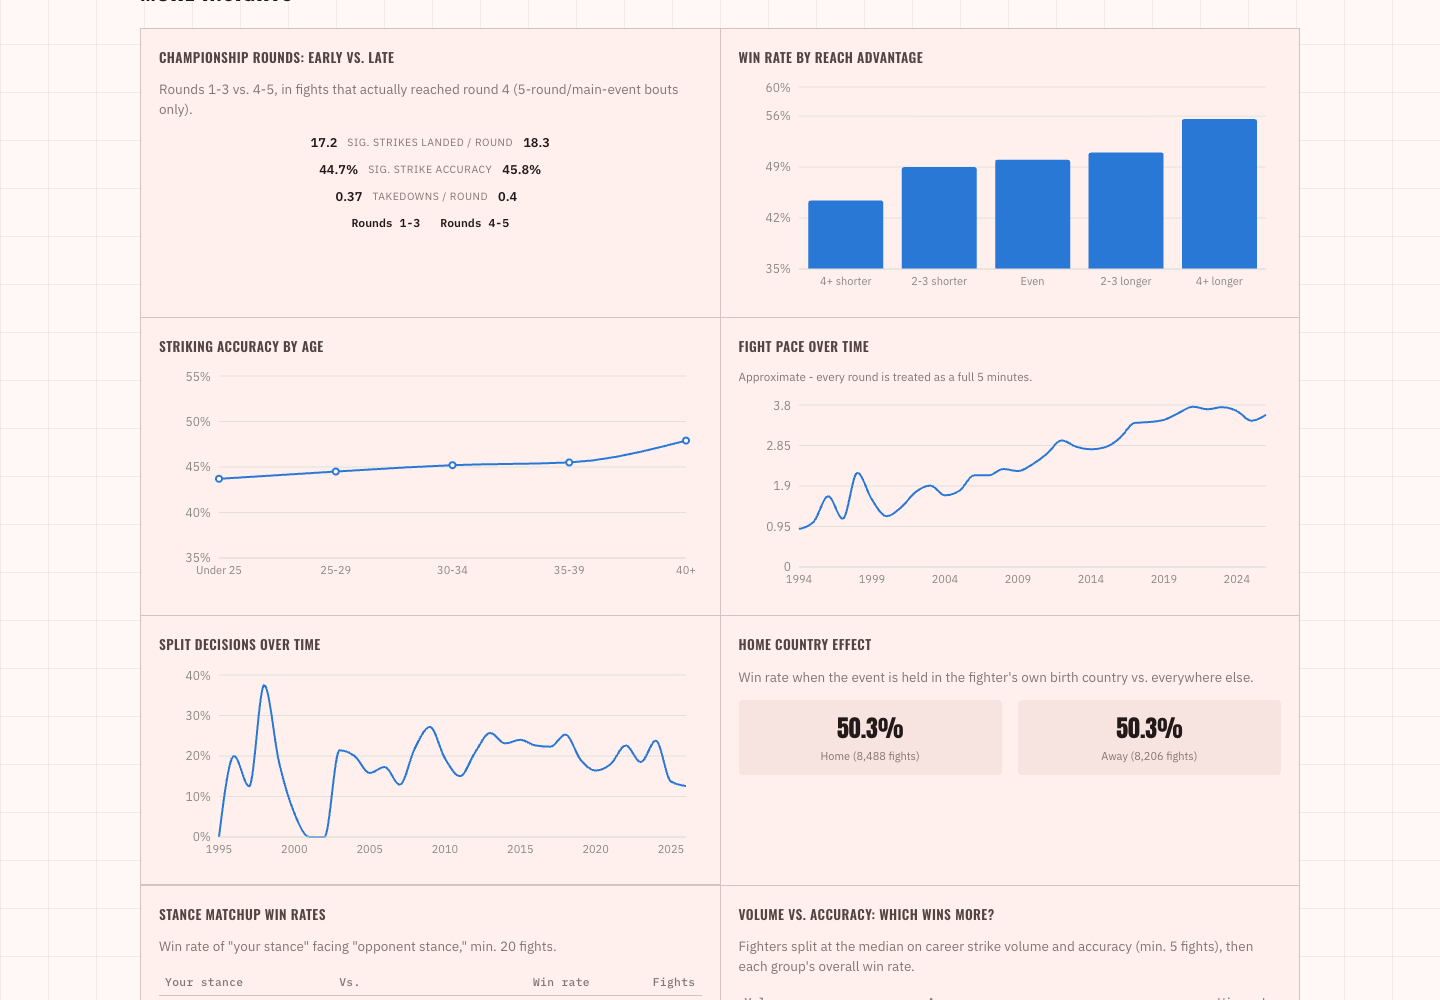
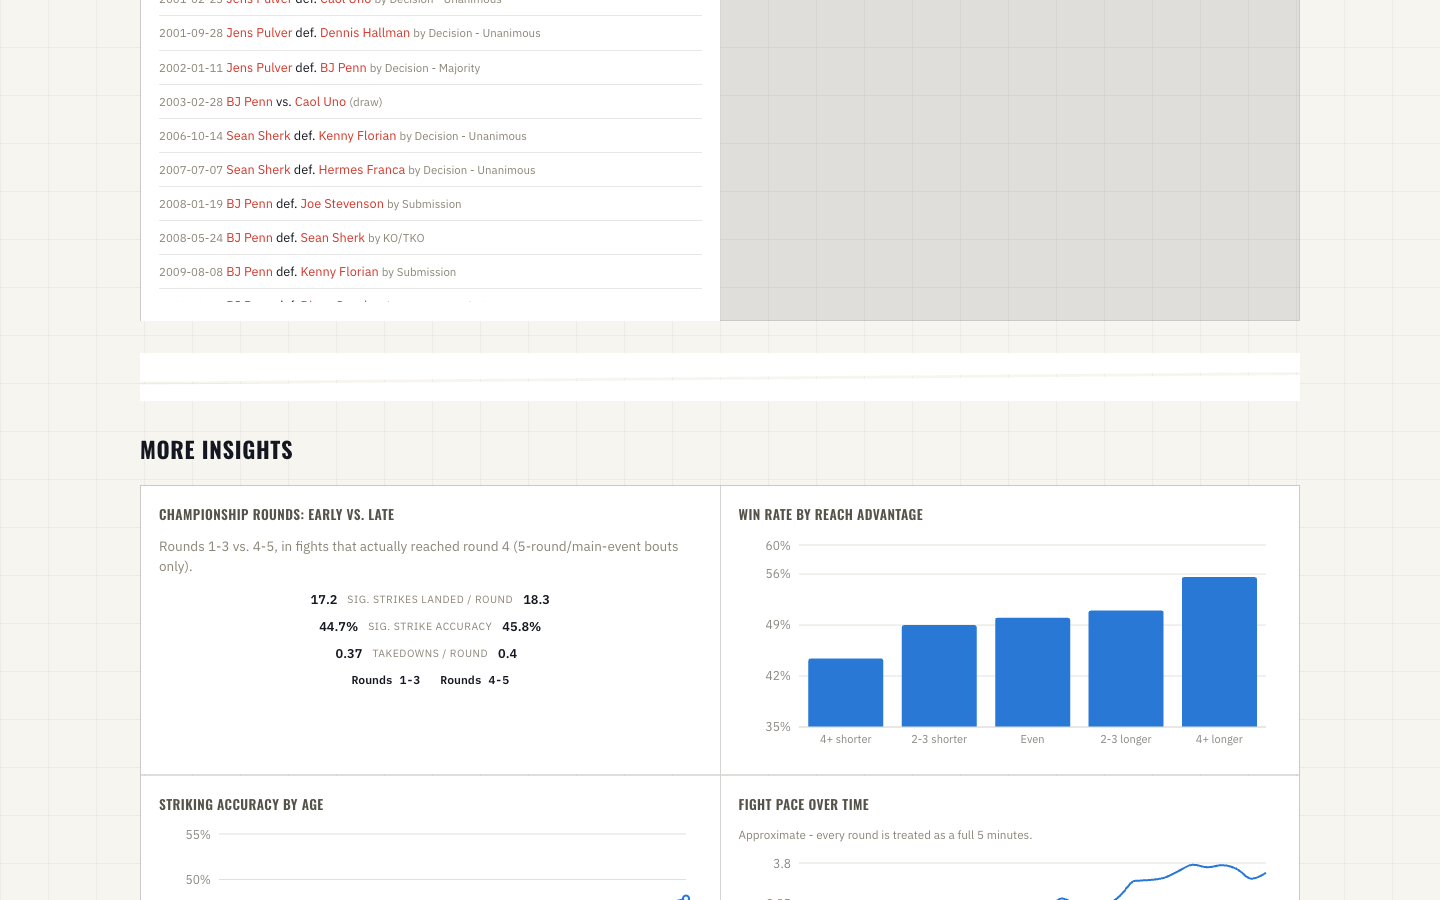
Revert "Rebuild UI on Material 3: algorithmically-generated color roles from the existing red-corner accent, real M3 state layers on interactive controls; keep the fight-card newspaper's flat shape language and leave chart series colors untouched"
This reverts commit 1e3d9e9161e861770a2fcd78363f7aaa02854dd7.

diff --git a/frontend/src/index.css b/frontend/src/index.css
@@ -1,82 +1,26 @@
-/* =========================================================================
-   Material 3 design system tokens.
-   Color roles generated algorithmically (HCT tonal-spot, seed #D1372A - the
-   app's existing "red corner" accent, formalized into a real tonal system)
-   via Google's @material/material-color-utilities - the tertiary role landed
-   on a gold naturally, which happens to match the belt/ranking accent this
-   app already used. The legacy variable names (--ink, --paper, --surface...)
-   are kept as aliases onto the new roles so none of the ~30 chart/table
-   components needed touching - only what they resolve to changed.
-
-   Shape stays deliberately flat: this app's "fight-card newspaper" identity
-   (hairline-grid card rows, sharp corners, no elevation shadows) is a real
-   M3-compatible choice - the spec's shape scale explicitly runs from "none"
-   to "full," and staying near the "none/extra-small" end is a valid brand
-   decision, not a deviation. Chart series colors (colors.js) stay untouched -
-   those are validated dataviz encodings, not UI chrome.
-   ========================================================================= */
-
+/* Token names (--ink, --paper) kept from the dark theme this replaces -
+   --ink is now the light page background and --paper the dark text
+   color, an inversion of what the names literally suggest, rather than
+   renaming every reference across App.css/colors.js/WorldMap.jsx. */
 :root {
   color-scheme: light;
-
-  /* Canonical M3 roles */
-  --md-sys-color-primary: #904a41;
-  --md-sys-color-on-primary: #ffffff;
-  --md-sys-color-primary-container: #ffdad5;
-  --md-sys-color-on-primary-container: #73342b;
-  --md-sys-color-secondary: #775652;
-  --md-sys-color-on-secondary: #ffffff;
-  --md-sys-color-secondary-container: #ffdad5;
-  --md-sys-color-on-secondary-container: #5d3f3b;
-  --md-sys-color-tertiary: #705c2e;
-  --md-sys-color-on-tertiary: #ffffff;
-  --md-sys-color-tertiary-container: #fcdfa6;
-  --md-sys-color-on-tertiary-container: #574419;
-  --md-sys-color-error: #ba1a1a;
-  --md-sys-color-on-error: #ffffff;
-  --md-sys-color-error-container: #ffdad6;
-  --md-sys-color-on-error-container: #93000a;
-  --md-sys-color-background: #fff8f7;
-  --md-sys-color-on-background: #231918;
-  --md-sys-color-surface: #fff8f7;
-  --md-sys-color-on-surface: #231918;
-  --md-sys-color-surface-variant: #f5ddda;
-  --md-sys-color-on-surface-variant: #534341;
-  --md-sys-color-surface-container-lowest: #ffffff;
-  --md-sys-color-surface-container-low: #fff0ee;
-  --md-sys-color-surface-container: #fceae7;
-  --md-sys-color-surface-container-high: #f7e4e1;
-  --md-sys-color-surface-container-highest: #f1dedc;
-  --md-sys-color-outline: #857370;
-  --md-sys-color-outline-variant: #d8c2be;
-  --md-sys-color-inverse-surface: #392e2c;
-  --md-sys-color-inverse-on-surface: #ffedea;
-
-  --md-sys-shape-corner-extra-small: 4px;
-  --md-sys-shape-corner-small: 8px;
-  --md-sys-shape-corner-medium: 12px;
-  --md-sys-shape-corner-large: 16px;
-  --md-sys-shape-corner-full: 999px;
-
-  --md-sys-elevation-1: 0 1px 2px 0 rgba(35, 25, 24, 0.14), 0 1px 3px 1px rgba(35, 25, 24, 0.08);
-  --md-sys-elevation-2: 0 1px 2px 0 rgba(35, 25, 24, 0.16), 0 4px 10px 1px rgba(35, 25, 24, 0.08);
-
-  /* Legacy aliases - same tokens, names the rest of the app already uses */
-  --ink: var(--md-sys-color-background);
-  --surface: var(--md-sys-color-surface-container-low);
-  --surface-raised: var(--md-sys-color-surface-container-high);
-  --paper: var(--md-sys-color-on-surface);
-  --text-secondary: var(--md-sys-color-on-surface-variant);
-  --text-muted: var(--md-sys-color-outline);
-  --accent-red: var(--md-sys-color-primary);
-  --accent-red-soft: var(--md-sys-color-primary-container);
-  --gold: var(--md-sys-color-tertiary);
-  --gold-soft: var(--md-sys-color-tertiary-container);
+  --ink: #f7f5f0;
+  --surface: #ffffff;
+  --surface-raised: #f0eee6;
+  --paper: #14171f;
+  --text-secondary: #55524a;
+  --text-muted: #8a8577;
+  --accent-red: #d1372a;
+  --accent-red-soft: rgba(209, 55, 42, 0.1);
+  --accent-blue: #2a78d6;
+  --accent-blue-soft: rgba(42, 120, 214, 0.1);
+  --gold: #a3782c;
+  --gold-soft: rgba(163, 120, 44, 0.14);
   --good: #1a8a3d;
   --bad: #c62f22;
-  --border: var(--md-sys-color-outline-variant);
-  --grid-line: rgba(35, 25, 24, 0.06);
-  --shadow: var(--md-sys-elevation-1);
+  --border: rgba(20, 23, 31, 0.1);
+  --grid-line: rgba(20, 23, 31, 0.045);
+  --shadow: 0 1px 2px rgba(20, 23, 31, 0.05), 0 16px 32px rgba(20, 23, 31, 0.06);
 
   font: 15px/1.5 "IBM Plex Sans", system-ui, -apple-system, "Segoe UI", sans-serif;
   -webkit-font-smoothing: antialiased;

diff --git a/frontend/src/App.css b/frontend/src/App.css
@@ -339,7 +339,6 @@ h1, h2, h3 {
 .text-input:focus {
   outline: none;
   border-color: var(--accent-red);
-  box-shadow: inset 0 0 0 1px var(--accent-red);
 }
 
 /* Fighter search */
@@ -515,7 +514,6 @@ h1, h2, h3 {
 
 .claude-composer:focus-within {
   border-color: var(--accent-red);
-  box-shadow: inset 0 0 0 1px var(--accent-red);
 }
 
 .claude-composer-input {
@@ -553,23 +551,11 @@ h1, h2, h3 {
   align-items: center;
   justify-content: center;
   cursor: pointer;
-  isolation: isolate;
-  transition: transform 0.1s;
+  transition: filter 0.15s, transform 0.1s;
 }
 
-.claude-send-btn::before {
-  content: "";
-  position: absolute;
-  inset: 0;
-  border-radius: inherit;
-  background: #ffffff;
-  opacity: 0;
-  transition: opacity 0.15s ease;
-  z-index: -1;
-}
-
-.claude-send-btn:not(:disabled):hover::before {
-  opacity: 0.12;
+.claude-send-btn:not(:disabled):hover {
+  filter: brightness(1.1);
 }
 
 .claude-send-btn:not(:disabled):active {

diff --git a/README.md b/README.md
@@ -128,26 +128,6 @@ validator were somehow skipped.
 **Not yet verified:** an actual live call through `chat/agent.py`/`ask.py` -
 this needs `ANTHROPIC_API_KEY`, which isn't set in this environment yet.
 
-## Design system: Material 3, as a fight-card newspaper
-
-The UI's color roles are generated algorithmically from the app's existing
-"red corner" accent (`#D1372A`) via Google's `@material/material-color-utilities`
-HCT tonal-spot algorithm - the same math behind Material You - which is also
-where the gold tertiary color came from (derived, not picked; it happened to
-land right on the belt/ranking accent this app already used). Legacy CSS
-variable names (`--ink`, `--paper`, `--accent-red`, ...) are kept as aliases
-onto the new M3 roles so the ~30 chart/table components needed no changes -
-only what the tokens resolve to did.
-
-Shape stays deliberately flat and sharp-cornered: this app's identity is a
-fight-card newspaper/broadcast grid (hairline dividers, edge-to-edge stat
-cards, no drop shadows), and M3's shape scale explicitly runs from "none" to
-"full" - staying near the flat end is a valid brand choice the spec
-accommodates, not a deviation from it. The chart series palette
-(`colors.js`) is untouched on purpose - those categorical/sequential colors
-are validated for the dataviz they encode, and repainting them to match a UI
-accent would break what they're showing.
-
 ## Dashboard
 
 `backend/` (FastAPI) + `frontend/` (React + Vite + Recharts).
